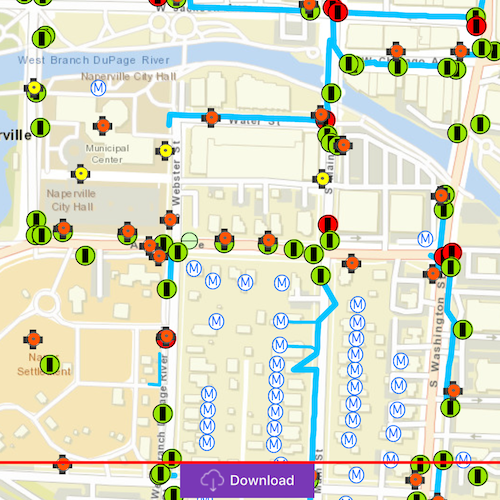
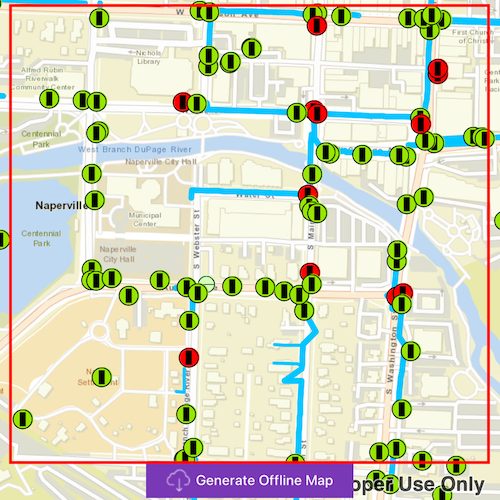
Generate offline map - fix button names and screenshots.

diff --git a/CppSamples/Maps/GenerateOfflineMap_Overrides/GenerateOfflineMap_Overrides.qml b/CppSamples/Maps/GenerateOfflineMap_Overrides/GenerateOfflineMap_Overrides.qml
@@ -61,7 +61,7 @@ GenerateOfflineMap_OverridesSample {
                 margins: 5
             }
 
-            text: qsTr("Download")
+            text: qsTr("Generate Offline Map (Overrides)")
             leftPadding: 20
             rightPadding: 20
             icon {
@@ -124,11 +124,11 @@ GenerateOfflineMap_OverridesSample {
         property alias text : textLabel.text
         property alias detailedText : detailsLabel.text
         ColumnLayout {
-            Text {
+            Label {
                 id: textLabel
                 text: qsTr("Some layers could not be taken offline.")
             }
-            Text {
+            Label {
                 id: detailsLabel
             }
         }

diff --git a/CppSamples/Maps/GenerateOfflineMapLocalBasemap/GenerateOfflineMapLocalBasemap.qml b/CppSamples/Maps/GenerateOfflineMapLocalBasemap/GenerateOfflineMapLocalBasemap.qml
@@ -61,7 +61,7 @@ GenerateOfflineMapLocalBasemapSample {
                 margins: 5
             }
 
-            text: qsTr("Download")
+            text: qsTr("Generate Offline Map")
             leftPadding: 20
             rightPadding: 20
             icon {

diff --git a/CppSamples/Maps/GenerateOfflineMap/GenerateOfflineMap.qml b/CppSamples/Maps/GenerateOfflineMap/GenerateOfflineMap.qml
@@ -61,7 +61,7 @@ GenerateOfflineMapSample {
                 margins: 5
             }
 
-            text: qsTr("Download")
+            text: qsTr("Generate offline map")
             leftPadding: 20
             rightPadding: 20
             icon {

diff --git a/CppSamples/Maps/GenerateOfflineMap_Overrides/GenerateOfflineMap_Overrides.cpp b/CppSamples/Maps/GenerateOfflineMap_Overrides/GenerateOfflineMap_Overrides.cpp
@@ -356,6 +356,8 @@ void GenerateOfflineMap_Overrides::takeMapOffline()
       break;
     case JobStatus::Started:
       emit updateStatus("In progress");
+      m_parameterOverrides = nullptr;
+      emit overridesReadyChanged();
       break;
     case JobStatus::Succeeded:
       // show any layer errors
@@ -373,7 +375,6 @@ void GenerateOfflineMap_Overrides::takeMapOffline()
       // show the map
       emit updateStatus("Complete");
       emit hideWindow(1500, true);
-      m_mapView->setMap(generateJob->result()->offlineMap(this));
       break;
     default: // do nothing
       break;
